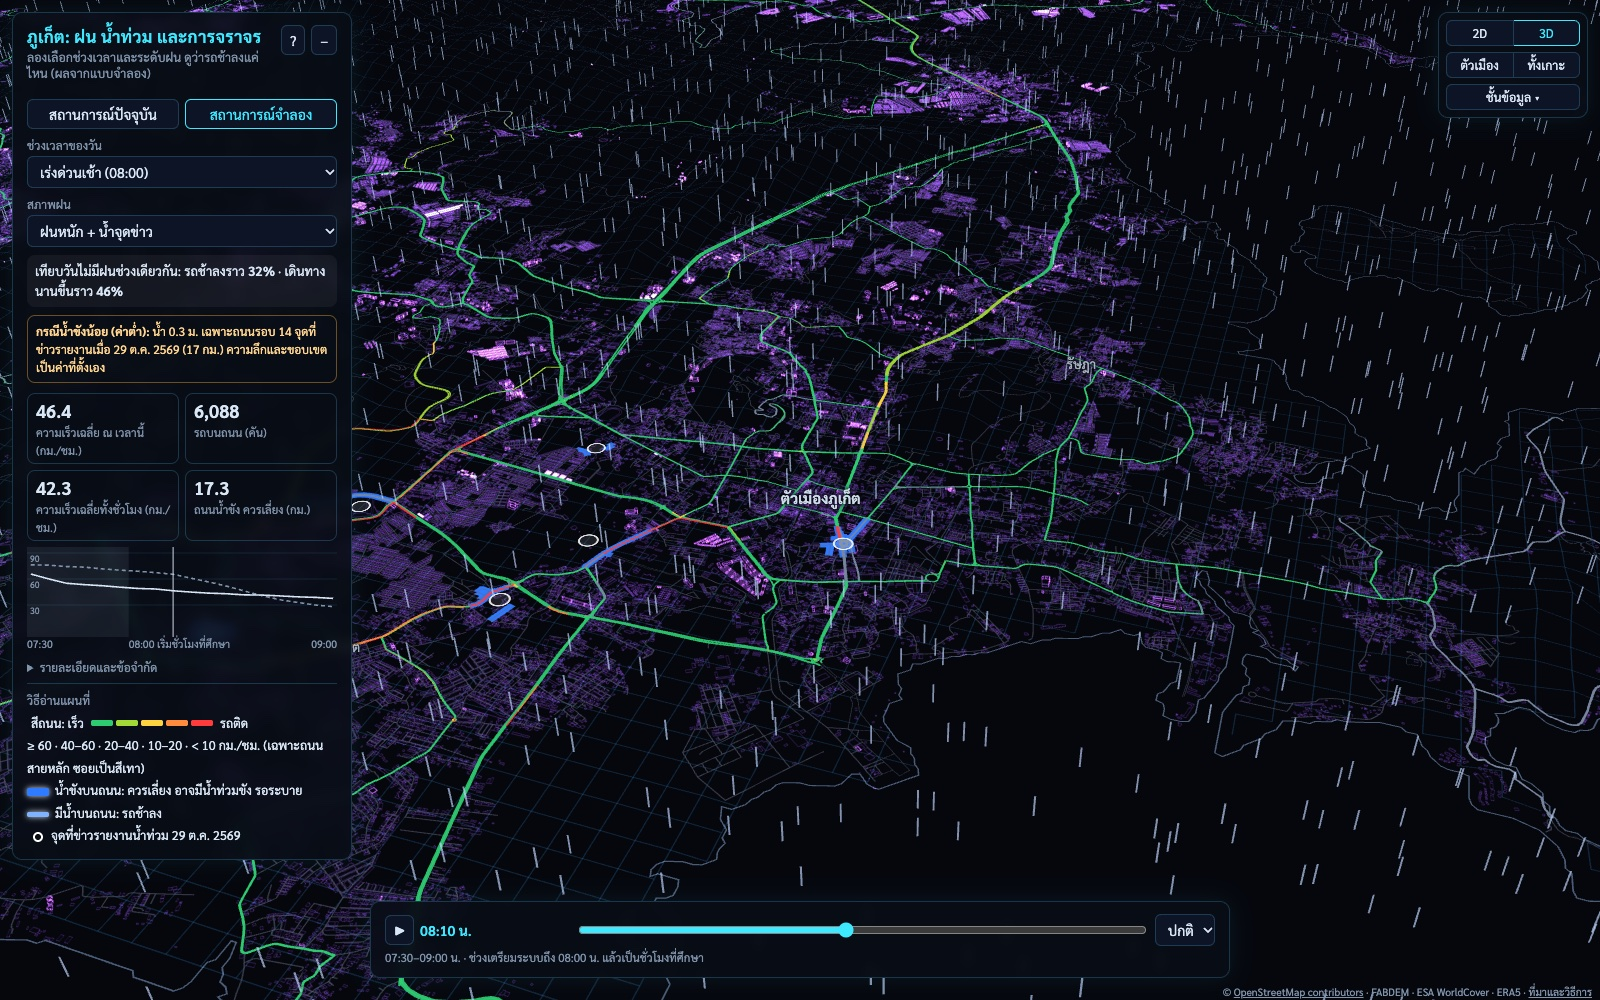
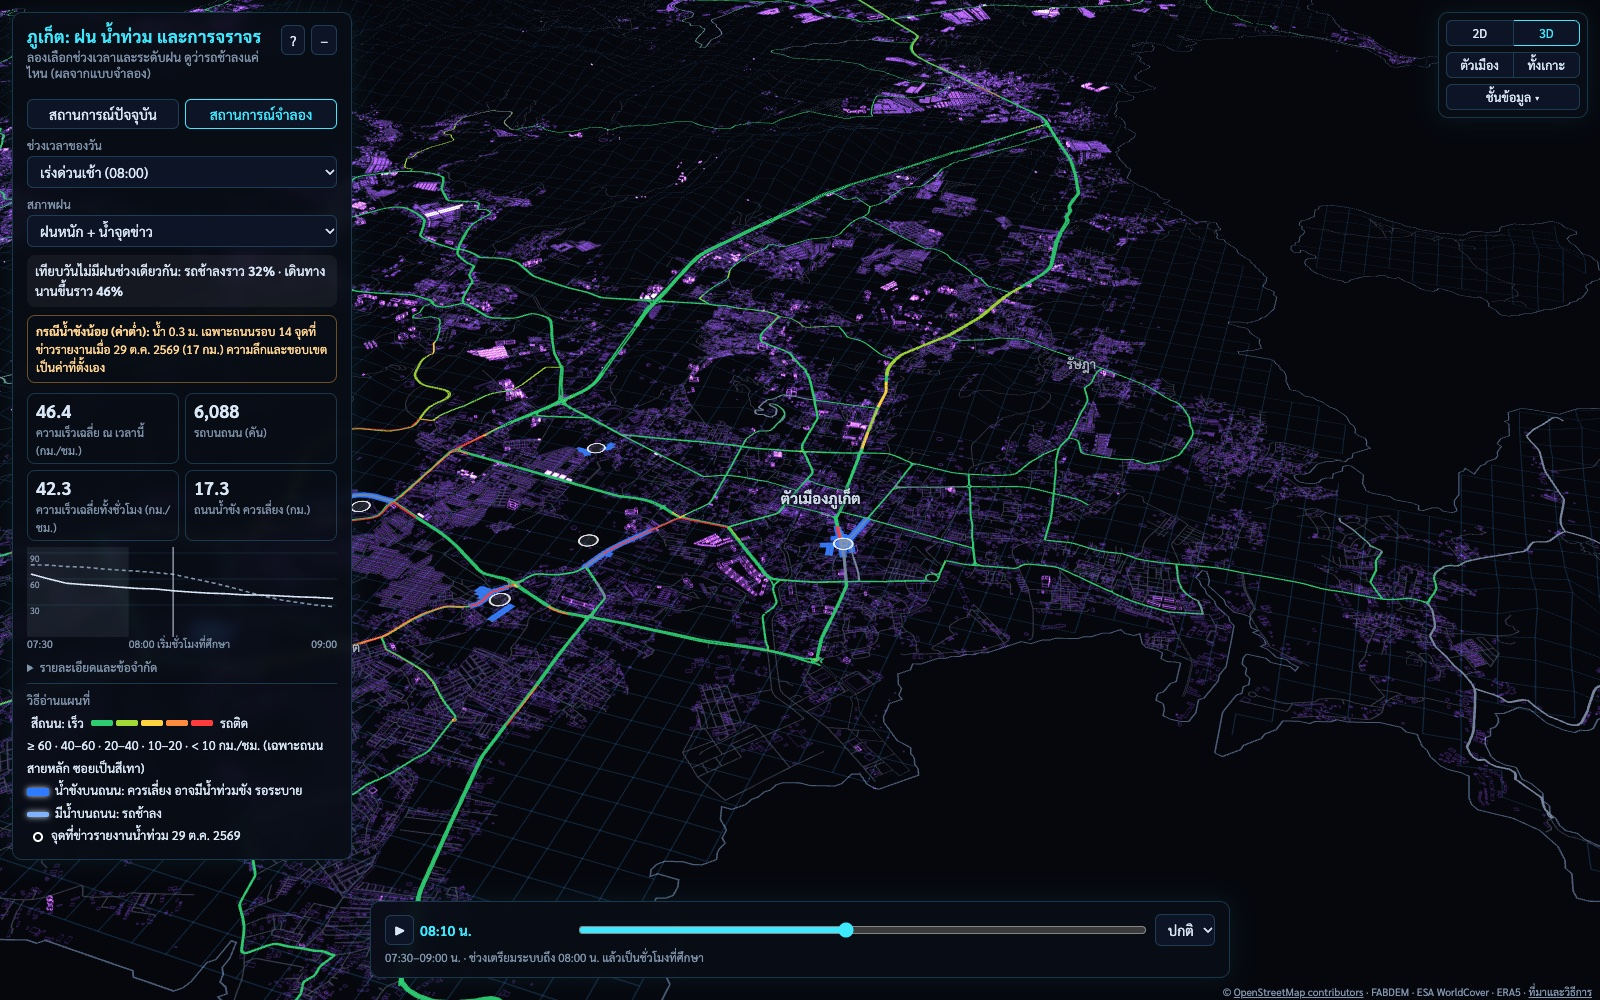
Replace Phuket Native screenshot with a 3D view without rain drops

diff --git a/README.md b/README.md
@@ -15,7 +15,7 @@ My work covers AI engineering, computer vision, NLP, data processing, simulation
 ### Phuket Native: Rain, Flooding, and Traffic in Phuket
 
 <a href="https://ariyaluesawat.github.io/phuket-traffic-flood-sim/">
-  <img src="images/phuket-native-3d.jpg" alt="Phuket Native 3D web viewer showing simulated road speeds, buildings, and rainfall over Phuket Town during the morning peak" width="100%" />
+  <img src="images/phuket-native-3d.jpg" alt="Phuket Native 3D web viewer showing simulated road speeds, and buildings over Phuket Town during the morning peak" width="100%" />
 </a>
 
 An island-wide traffic simulation of Phuket covering 4,439 km of roads. It estimates how rainfall and standing water reduce traffic speeds at different times of day.
